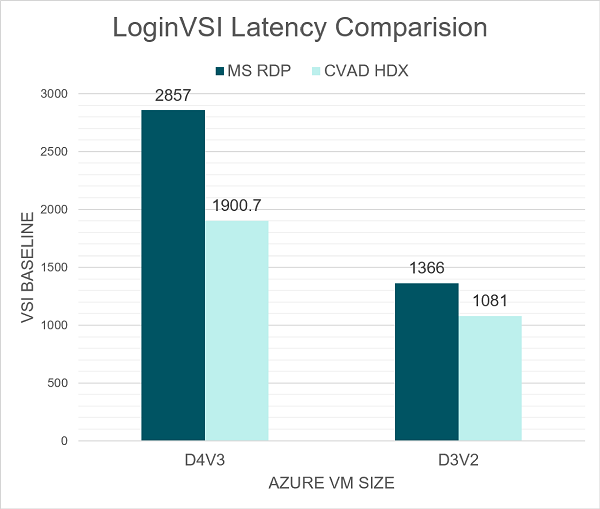
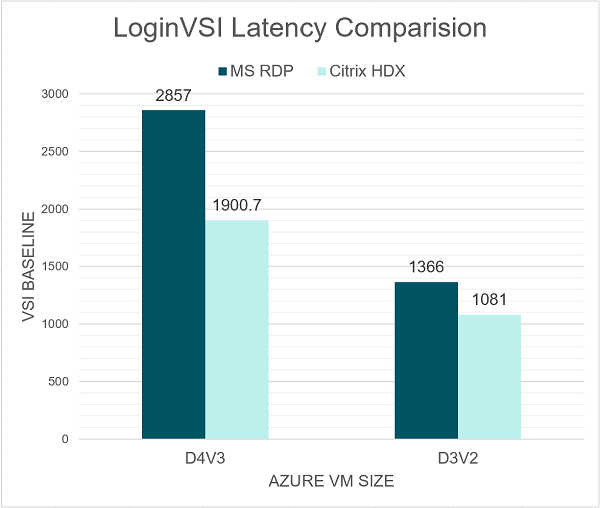
Fixed Acrolinx errors and updated image

diff --git a/en-us/tech-zone/learn/tech-briefs/windows-virtual-desktop-value-add.md b/en-us/tech-zone/learn/tech-briefs/windows-virtual-desktop-value-add.md
@@ -158,7 +158,7 @@ Read more about the testing and results [here](/en-us/tech-zone/design/design-de
 
 ## Choice - Monitoring and Analytics
 
-The setup and design of an environment is just the first part of getting VDI infrastructure for an organization. For that reason, it gets the most focus from cloud providers. But the Day 2 and onwards of running and maintainence of a large environment in my opinion is as important. Hosting VMs in public clouds obfuscate the running of the machines, but the admin must still ensure that the user experience is consistent and high performing day in and day out.
+The setup and design of an environment is just the first part of getting VDI infrastructure for an organization. For that reason, it gets the most focus from cloud providers. But the Day 2 and onwards of running and maintenance of a large environment in my opinion is as important. Hosting VMs in public clouds obfuscate the running of the machines, but the admin must still ensure that the user experience is consistent and high performing day in and day out.
 
 Citrix gives full help desk visibility into user sessions, for both real-time debugging of specific user issues and performance, and broad visibility into the environment and trends.
 
@@ -204,7 +204,7 @@ Learn about the analytics capabilities, visit the [Analytics Tech Brief](/en-us/
 
 ## Experience
 
-In this section, the features that enhance the user expereince when accessing their Windows Virtual Desktop resoures are showcased.
+In this section, the features that enhance the user experience when accessing their Windows Virtual Desktop resources are showcased.
 
 ## Experience - HDX
 
@@ -355,20 +355,20 @@ CPU optimization with WEM, involves real-time monitoring of the process running 
 
 ![WEM CPU Optimization](/en-us/tech-zone/learn/media/tech-briefs_windows-virtual-desktop-value-add_25-wem-cpu-optimization.gif)
 
-Each CVAD release build is tested to validate the expected scale improvements, using LoginVSI. To validate the effect of CPU optimization by WEM, in a noisy neighbor scenario, these scale tests were extended. To simulate a noisy neighbor, a user not part of the LoginVSI knowledge worker test run, is added to the test setup. This user’s session is configured, to launch a process that consumes 3 CPU cores for an average of 50 to 70% of total CPU, based on the number of cores in the Azure VM.
+Each Citrix Virtual Apps and Desktops release build is tested to validate the expected scale improvements, using LoginVSI. To validate the effect of CPU optimization by WEM, in a noisy neighbor scenario, these scale tests were extended. To simulate a noisy neighbor, a user not part of the LoginVSI knowledge worker test run, is added to the test setup. This user’s session is configured, to launch a process that consumes 3 CPU cores for an average of 50 to 70% of total CPU, based on the number of cores in the Azure VM.
 
-Windows 10 2004 multi-session VMs, were tested with CVAD 2006 installed and the Citrix Optimizer applied and WEM agent over HDX. To baseline the test results, the same test was run with Microsoft RDP as the connection protocol and the VMs had Out of the Box optimizations from Microsoft.
+Windows 10 2004 multi-session VMs, were tested with Citrix Virtual Apps and Desktops 2006 installed and the Citrix Optimizer applied and WEM agent over HDX. To baseline the test results, the same test was run with Microsoft RDP as the connection protocol and the VMs had Out of the Box optimizations from Microsoft.
 
 As can be seen from the below table, the inclusion of WEM, suppresses the effect of the CPU consuming noisy neighbor, and increases the VSImax (no of users that can be supported on the machine) from 20 to 43%. Resulting in a higher number of users that can run on a single VM, even in this stress scenario.
 
 **Scale breakdown with Noisy Neighbor scenario**:
-| Azure Size  |  MS RDP | CVAD HDX  | % WEM Scalability Improvement  |
+| Azure Size  |  MS RDP | Citrix HDX  | % WEM Scalability Improvement  |
 |---|---|---|---|
 | D4V3  | 7.3  | 11.3  | **43.0%**  |
 | D3V2  | 12  | 16  | **28.6%**  |
 | D4V2  | 28  | 34.5  | **20.8%**  |
 
-As WEM reduces CPU spikes, another important inference from the results is, that the response time for the user is much better. CVAD sessions have an almost 1000 ms lower response time when compared to MS RDP (at the instant VSImax is reached) for the same number of users.
+As WEM reduces CPU spikes, another important inference from the results is, that the response time for the user is much better. Citrix Virtual Apps and Desktops sessions have an almost 1000 ms lower response time when compared to MS RDP (at the instant VSImax is reached) for the same number of users.
 
 Similarly, the latency observed in the session is between 25 to 50% lesser on both the machines with 4 vCPUs. Both these results point to a much smoother and snappier use experience when WEM is in the picture.
 
@@ -436,7 +436,7 @@ Learn more about how to set up the same [here](/en-us/tech-zone/build/deployment
 
 ### Citrix Gateway and Citrix Secure Workspace Access
 
-Citrix Gateway is the preferred app delivery solution for reverse proxy to Citrix resources, providing VPN-less access to resoruces for end users.
+Citrix Gateway is the preferred app delivery solution for reverse proxy to Citrix resources, providing VPN-less access to resources for end users.
 
 Citrix Gateway Service has dozens of Points of Presence (POP) globally, connecting through the nearest Citrix Gateway POP improves performance. With Citrix VAD service and Citrix Gateway service enterprises now may provide remote access to apps and desktops without additional VPN requirements along with following benefits:
 
